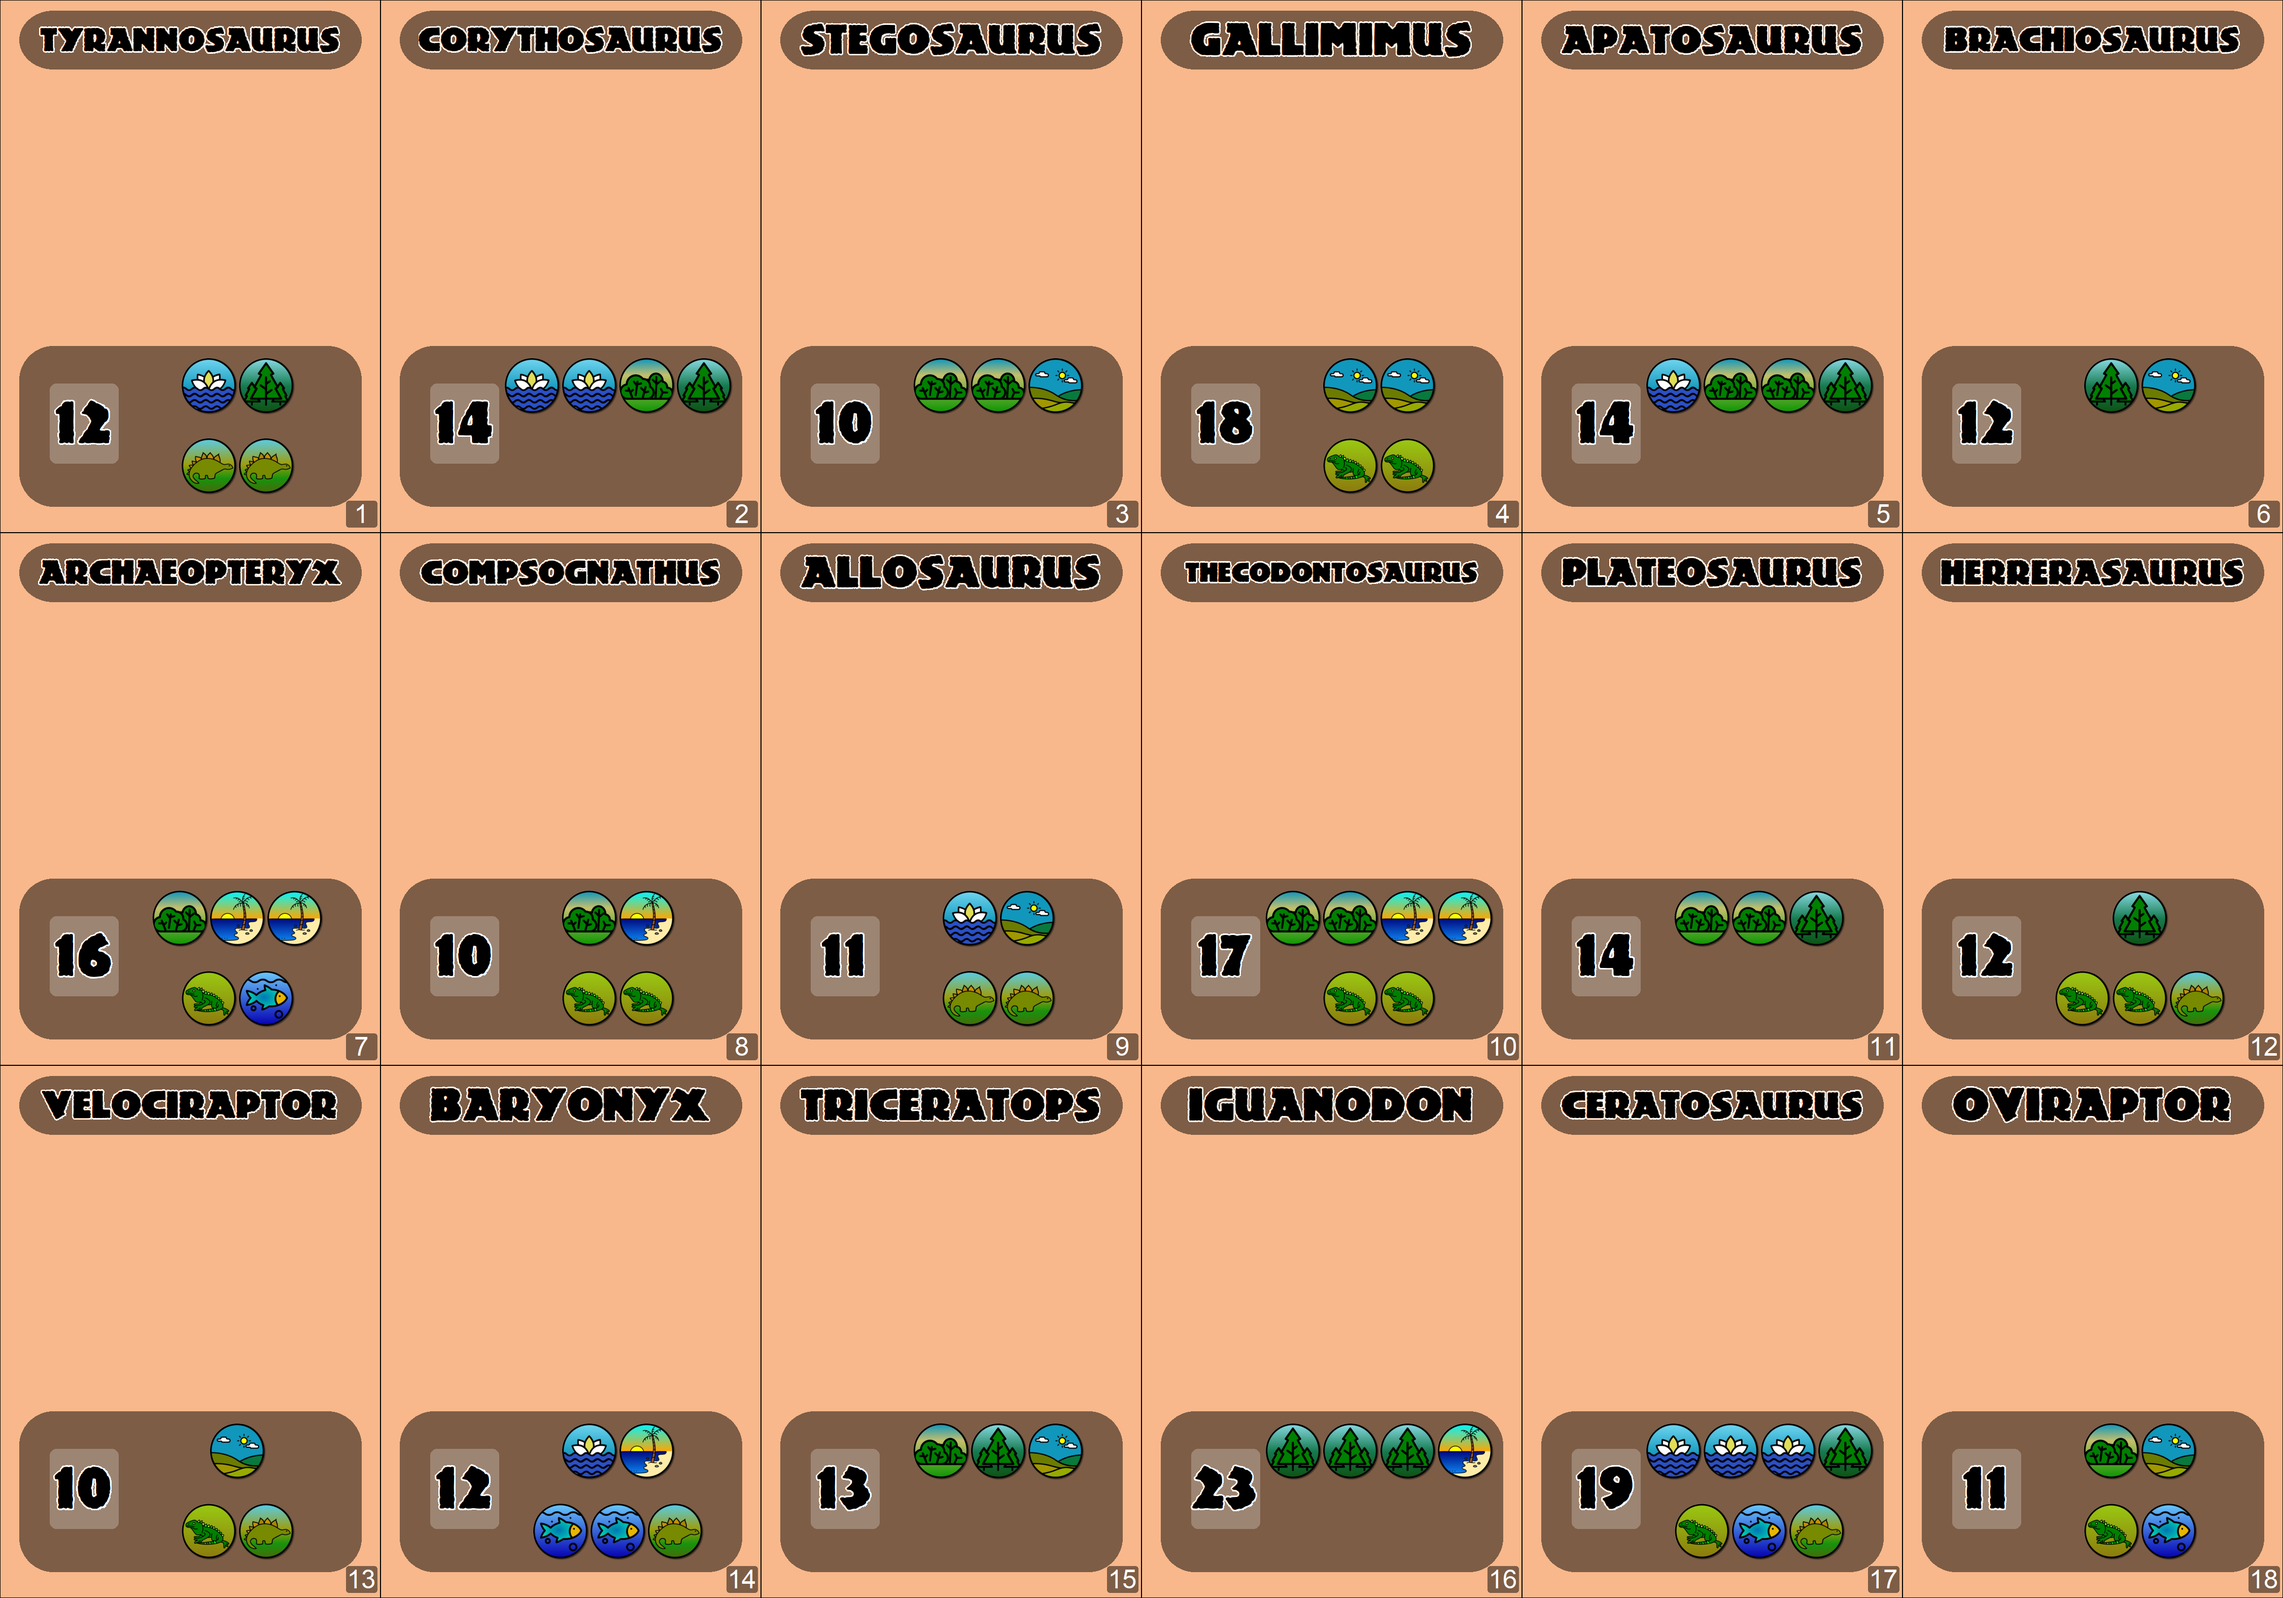
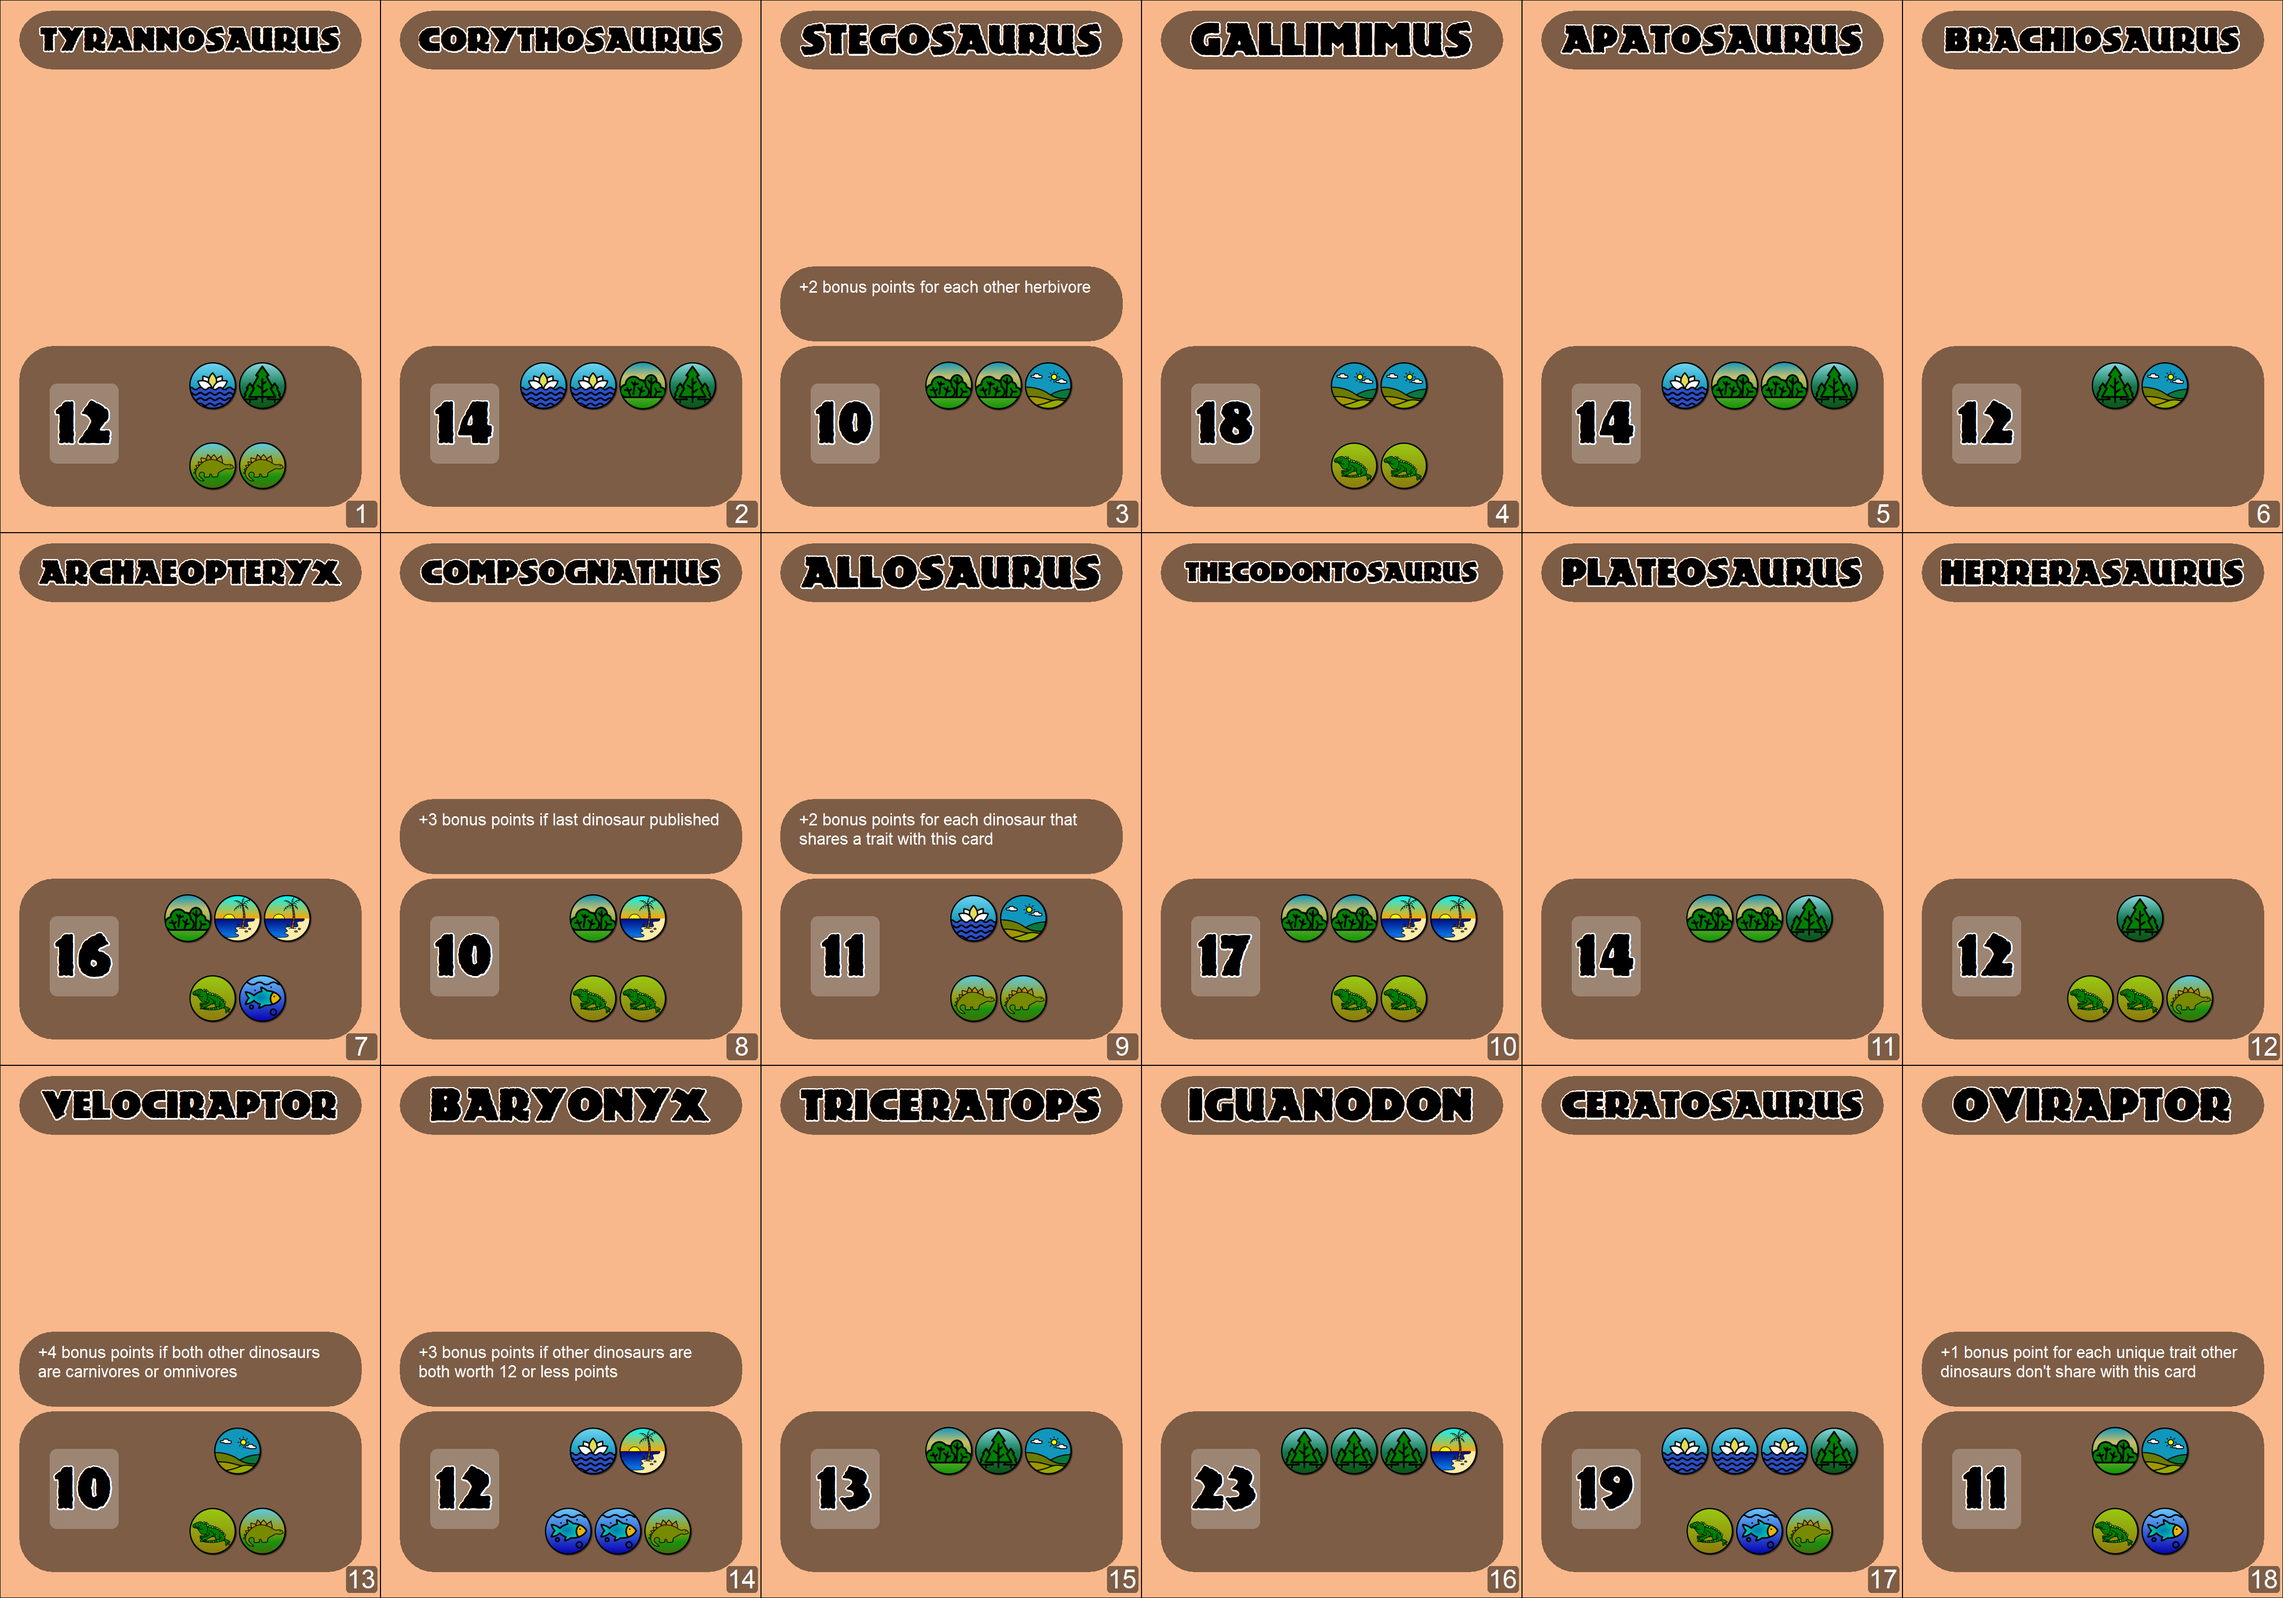
Final state of repository after submission and any minor post improvements

diff --git a/dinocards.py b/dinocards.py
@@ -182,6 +182,48 @@ HABITAT_IMAGE_FILENAMES = [
     "dinos(28)_1.png"
 ]
 
+NEW_HABITAT_DIRECTORIES = [
+    "paleoart",
+    "paleoart",
+    "paleoart",
+    "paleoart",
+    "paleoart",
+    "paleoart",
+    "paleoart",
+    "paleoart",
+    "paleoart",
+    "paleoart",
+    "paleoart",
+    "paleoart",
+    "paleoart",
+    "paleoart",
+    "paleoart",
+    "paleoart",
+    "paleoart",
+    "paleoart"
+]
+
+NEW_HABITAT_IMAGE_FILENAMES = [
+    "island.png",
+    "lagoon.png",
+    "swamp.png",
+    "flood_plain.png",
+    "prarie.png",
+    "river.png",
+    "riparian_forest.png",
+    "coniferous_forest.png",
+    "marsh.png",
+    "lake.png",
+    "delta.png",
+    "savanna.png",
+    "coast.png",
+    "mixed_forest.png",
+    "deciduous_forest.png",
+    "desert_plain.png",
+    "scrublands.png",
+    "wetlands.png"
+]
+
 def applyCardToRequirements(cardIndex, requirementsIn):
     card = CARDS[cardIndex]["habitat"]
     for i in range(8):
@@ -361,12 +403,12 @@ DINOSAUR_BONUS_POINTS = [
     "",
     "",
     "",
-    "+4 bonus points if both other dinosaurs are carnivores",
+    "+4 bonus points if both other dinosaurs are carnivores or omnivores",
     "+3 bonus points if other dinosaurs are both worth 12 or less points",
     "",
     "",
     "",
-    "+1 bonus point for each unique trait among other dinosaurs"
+    "+1 bonus point for each unique trait other dinosaurs don't share with this card"
 ]
 
 
@@ -378,7 +420,7 @@ for cardIndex in range(len(CARDS)):
     print(HABITAT_NAMES[cardIndex], end =",")
 
     # habitat image path
-    print(HABITAT_DIRECTORIES[cardIndex] + "/" + HABITAT_IMAGE_FILENAMES[cardIndex], end = ",")
+    print(NEW_HABITAT_DIRECTORIES[cardIndex] + "/" + NEW_HABITAT_IMAGE_FILENAMES[cardIndex], end = ",")
 
     # habitat environment traits
     for traitIndex in range(5):
